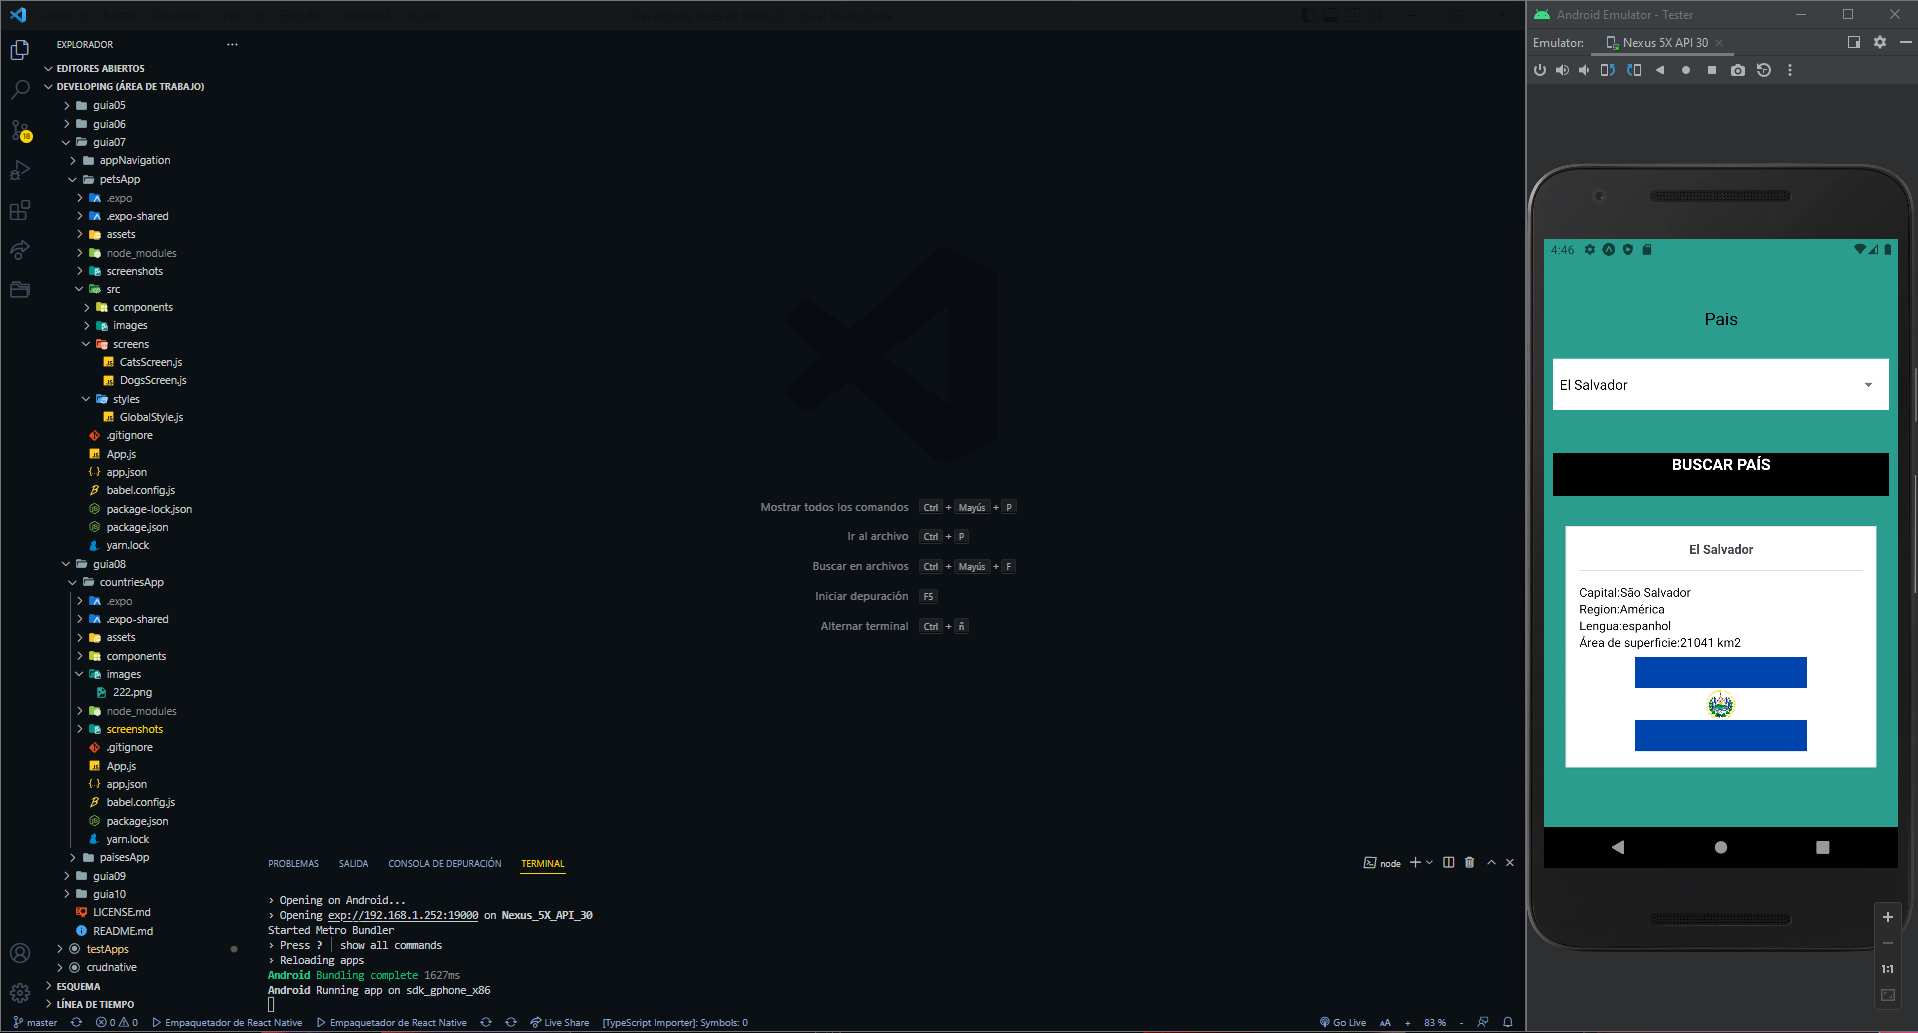
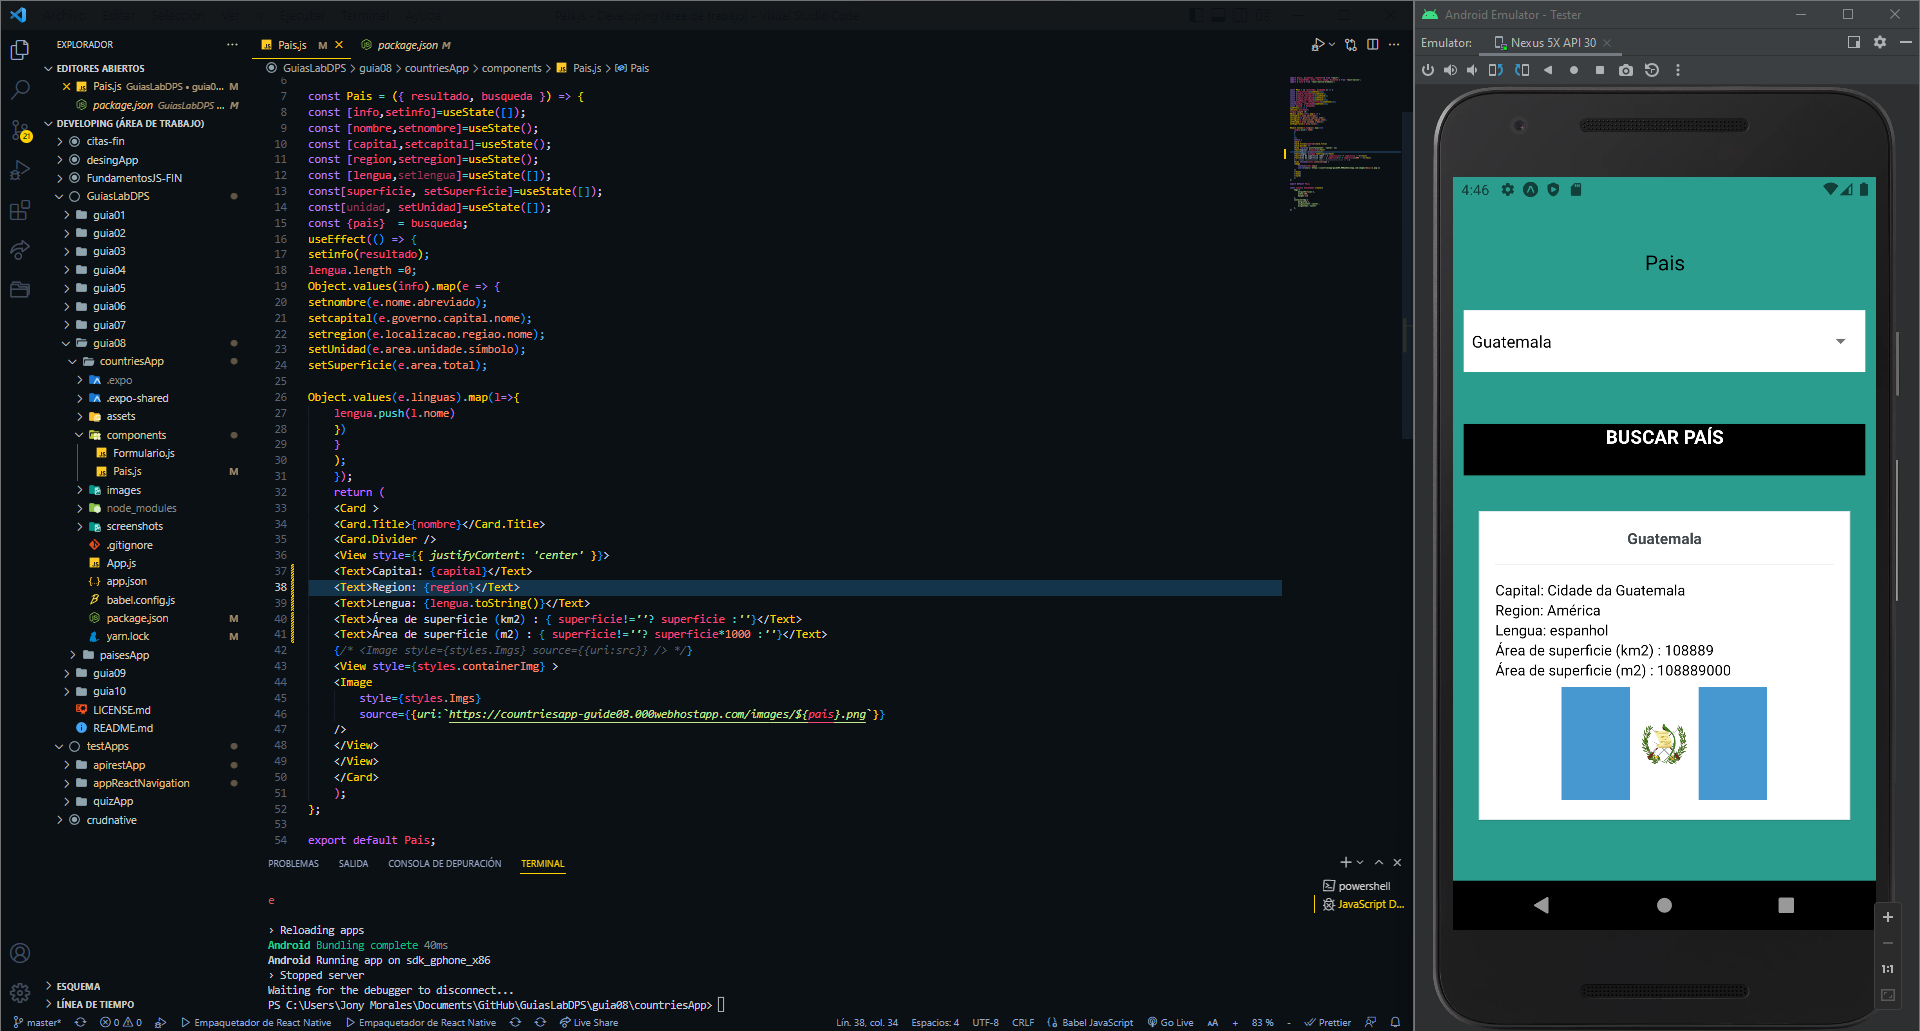
guide eight -details 👾

Changed region(s): [[0.0, 0.0, 1.0, 1.0], [0.123, 0.4656, 0.6767, 0.7449], [0.123, 0.807, 0.2769, 0.838]]

diff --git a/guia08/countriesApp/components/Pais.js b/guia08/countriesApp/components/Pais.js
@@ -34,10 +34,11 @@ Object.values(e.linguas).map(l=>{
     <Card.Title>{nombre}</Card.Title>
     <Card.Divider />
     <View style={{ justifyContent: 'center' }}>
-    <Text>Capital:{capital}</Text>
-    <Text>Region:{region}</Text>
-    <Text>Lengua:{lengua.toString()}</Text>
-    <Text>Área de superficie:{superficie} {unidad}</Text>
+    <Text>Capital: {capital}</Text>
+    <Text>Region: {region}</Text>
+    <Text>Lengua: {lengua.toString()}</Text>
+    <Text>Área de superficie (km2) : { superficie!=''? superficie :''}</Text>
+    <Text>Área de superficie (m2) : { superficie!=''? superficie*1000 :''}</Text>
     {/* <Image style={styles.Imgs} source={{uri:src}} /> */}
     <View style={styles.containerImg} >
     <Image 
